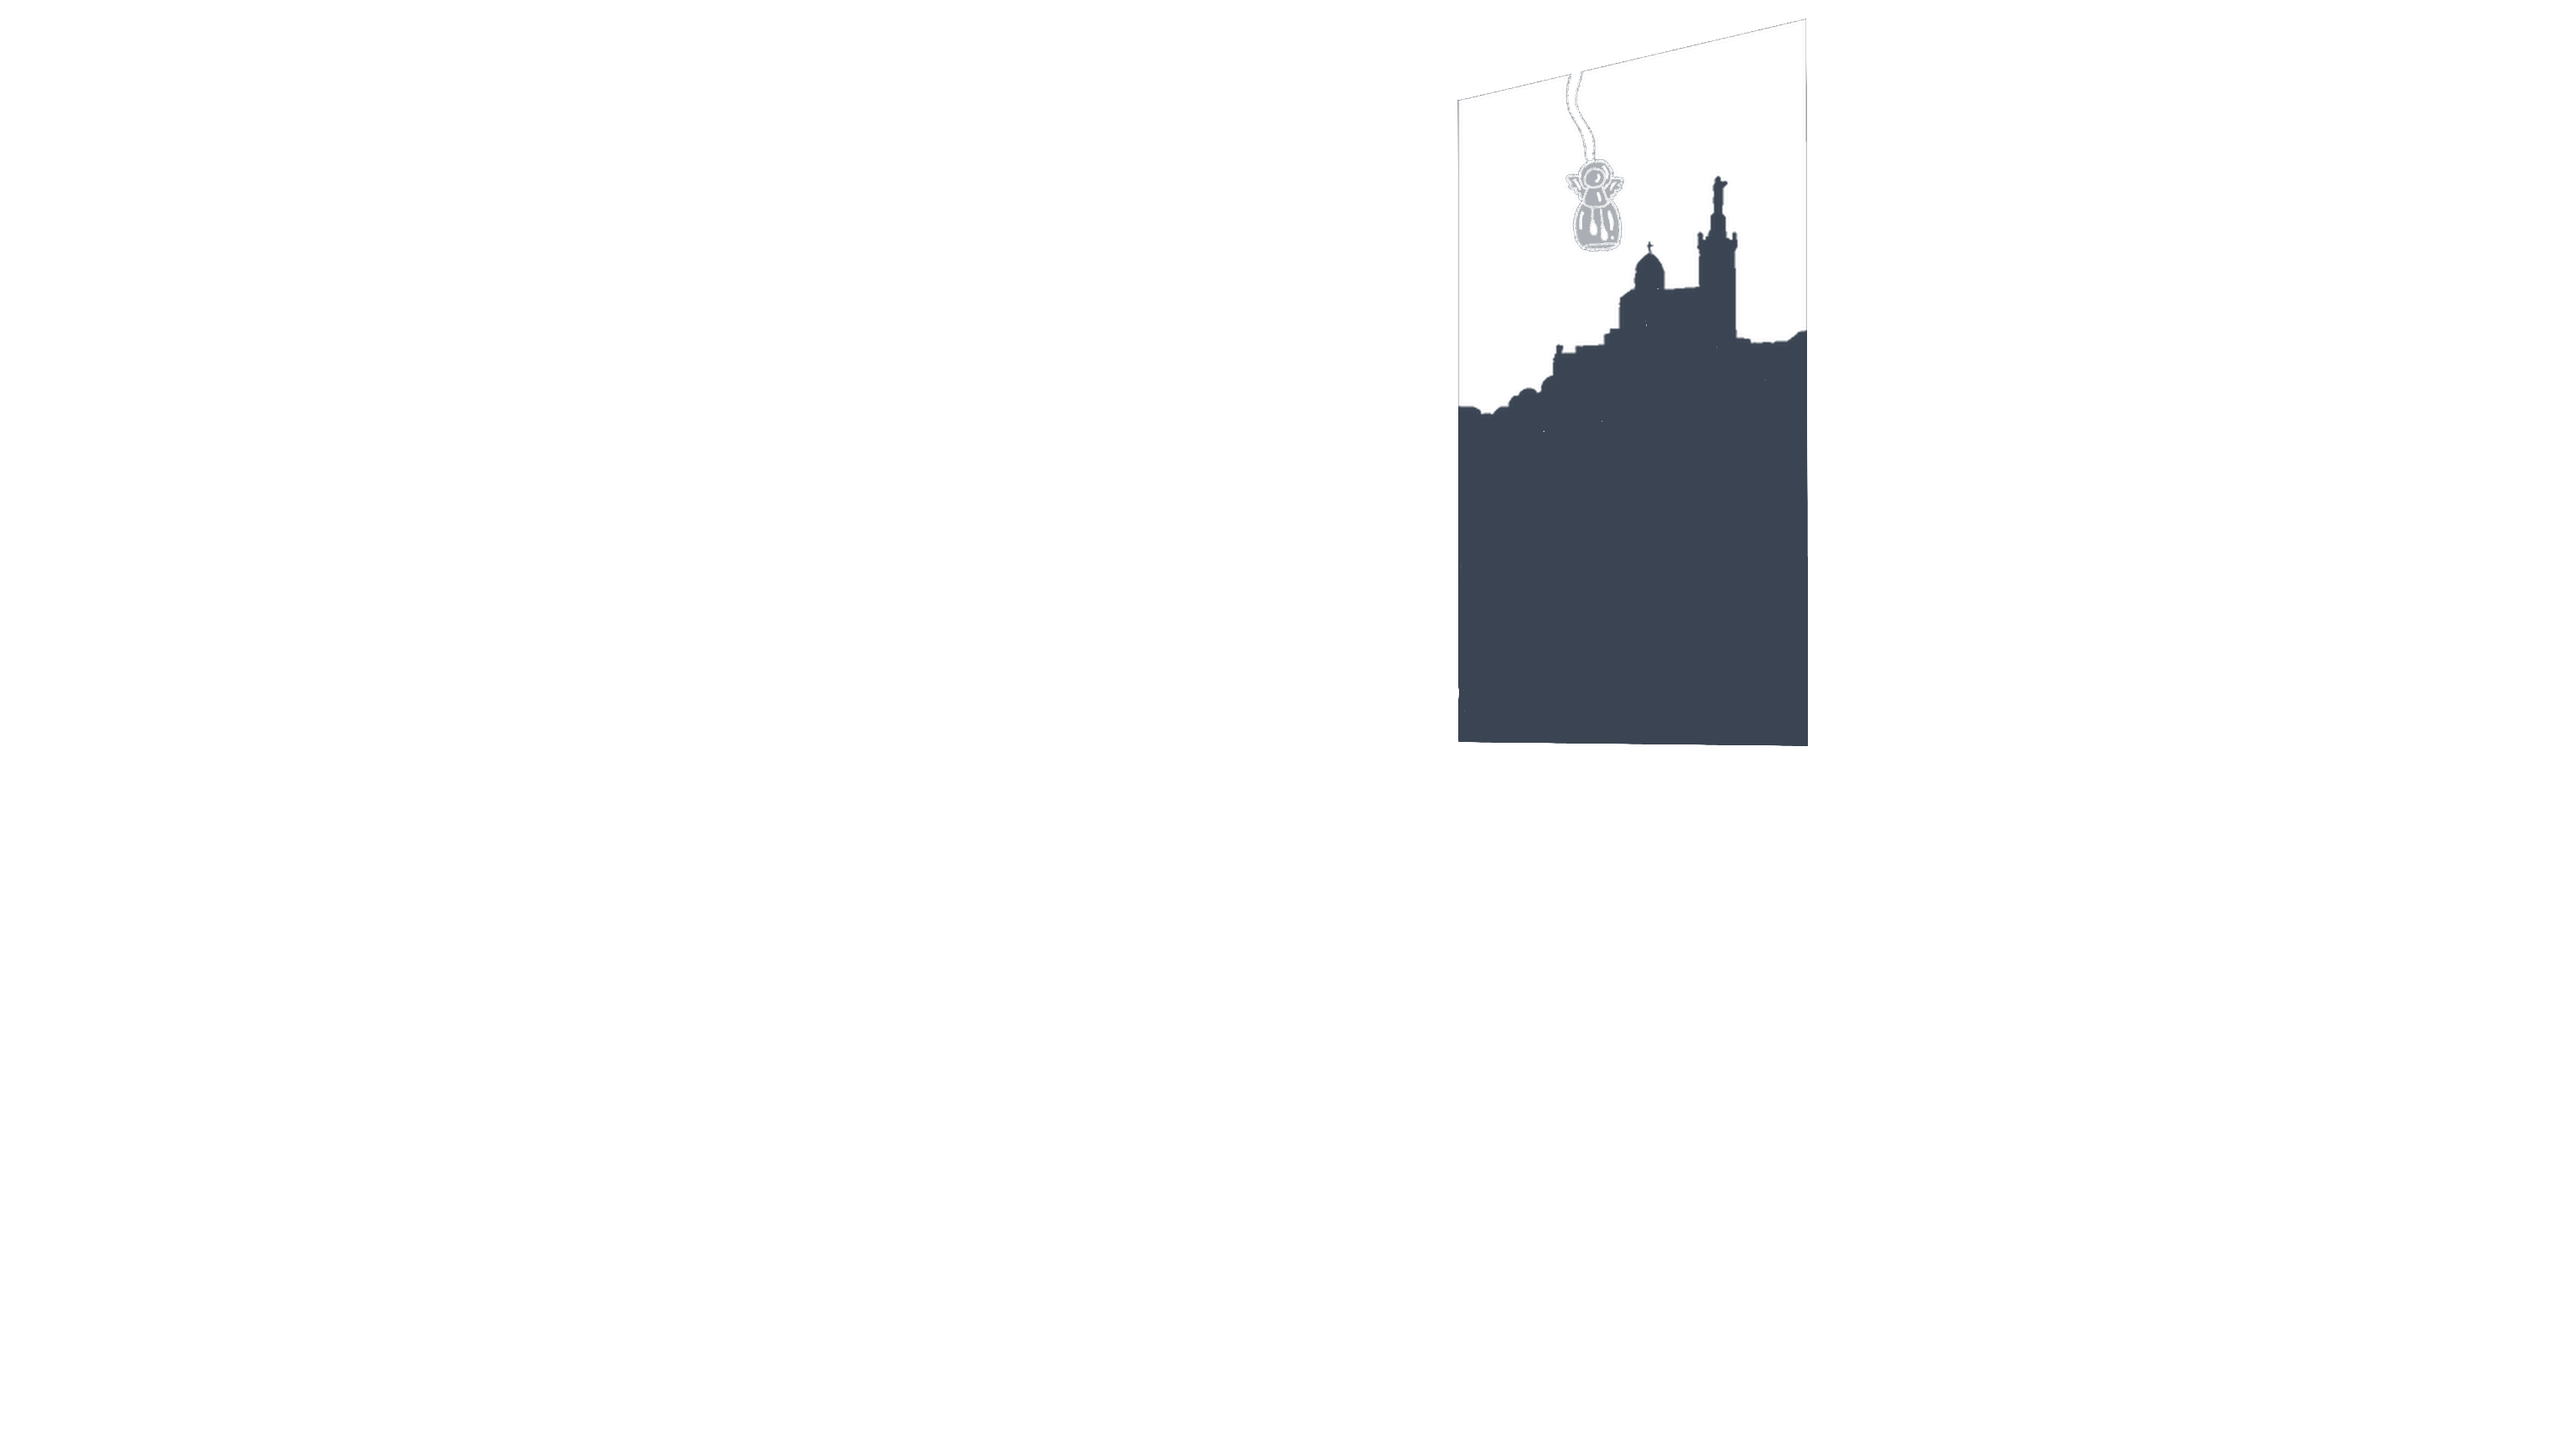
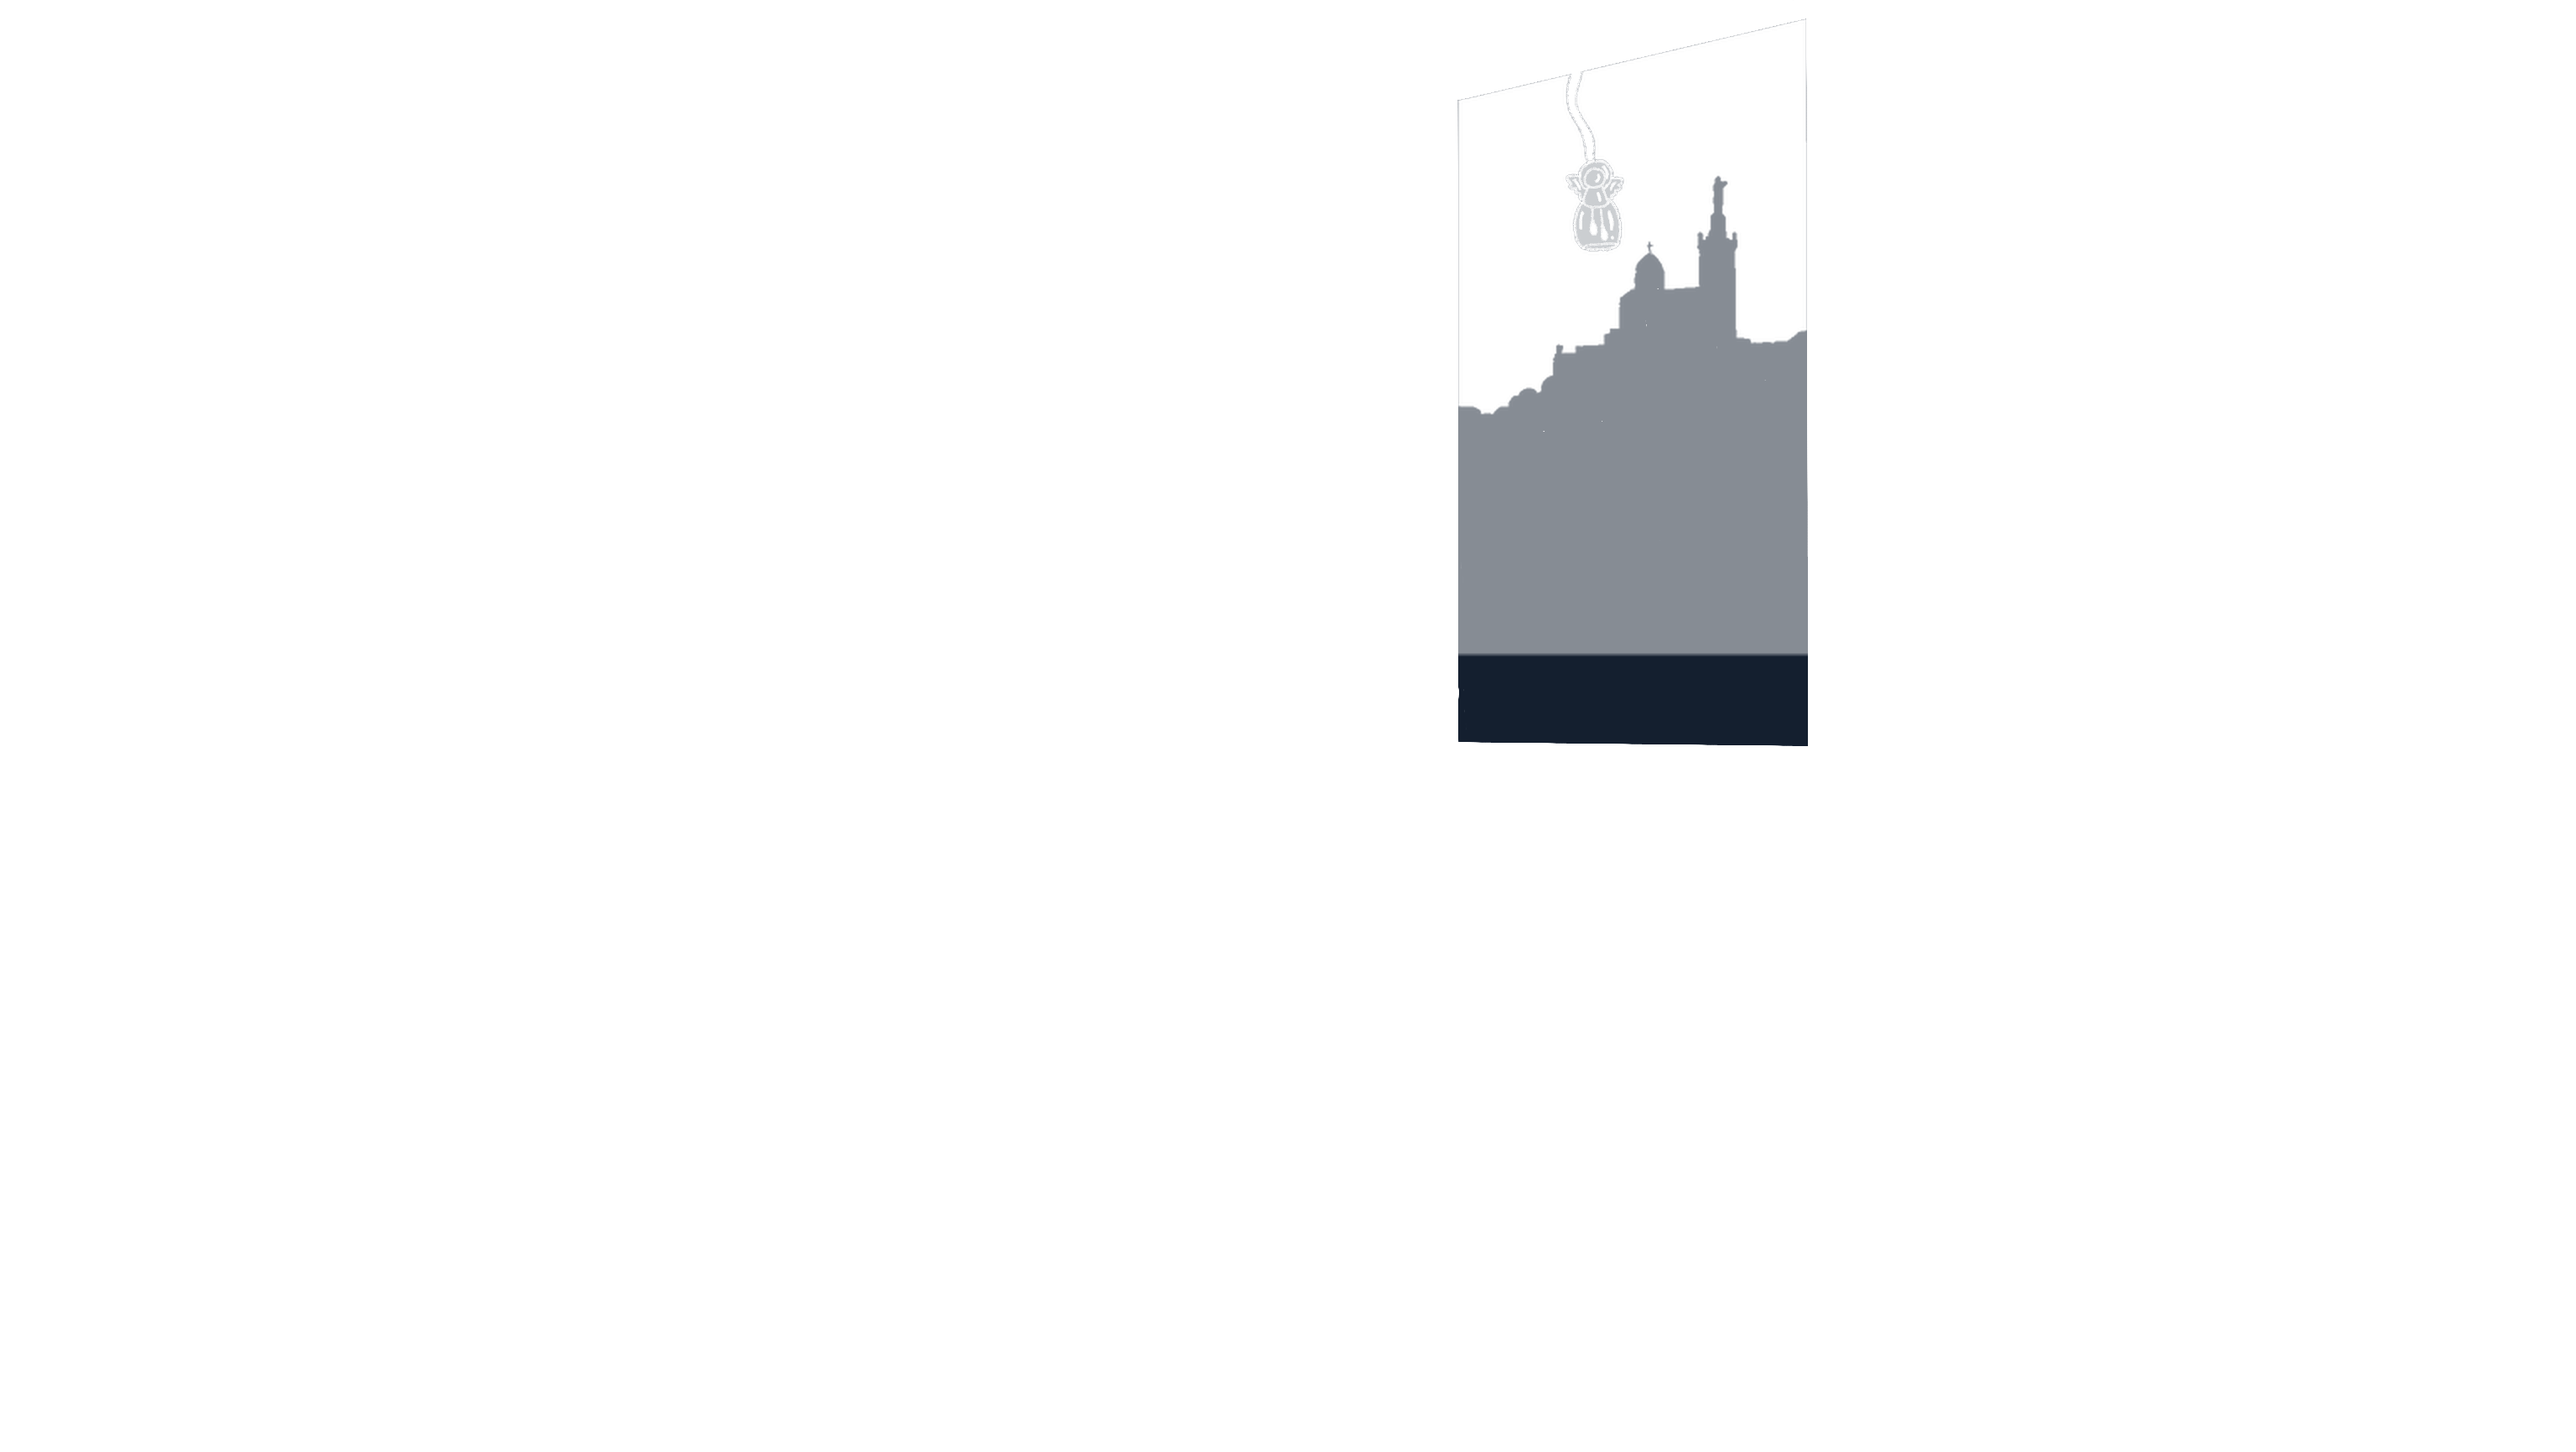
Reprendre le verre, les reflets des lampes et la mer de nuit

Changed region(s): [[0.5625, 0.0935, 0.7188, 0.53]]

diff --git a/index.html b/index.html
@@ -232,11 +232,18 @@ html[data-theme="night"] #nana-glow-stars-layer .nana-phosphor-star {opacity:1!i
     #play-viewport.room-redraw-preview #hotspot-guide {
       display: none !important;
     }
+    .v2-clock-reflection { display:none; }
+    html[data-theme="night"] .v2-clock-reflection { display:inline; }
+    .v2-mirror-night,.v2-mirror-reflection { display:none; }
+    html[data-theme="night"] .v2-mirror-day { display:none; }
+    html[data-theme="night"] .v2-mirror-night,
+    html[data-theme="night"] .v2-mirror-reflection { display:inline; }
+    html[data-theme="night"] .v2-mirror-reflection { filter: url(#v2-mirror-rose); }
     .v2-lit-posters { display: none; }
     html[data-theme="night"] .room-redraw-preview .v2-lit-posters { display: inline; }
-    html[data-theme="night"] .room-redraw-preview .memory-tile { filter: url(#room-v2-night-ink); }
+    html[data-theme="night"] .room-redraw-preview :is(.memory-tile,.memory-marble-art:not(.memory-hover)) { filter: url(#room-v2-night-ink); }
     /* Keep hand-drawn lights in daylight colours, above the recoloured artwork. */
-    html[data-theme="night"] .room-redraw-preview :is(#room-redraw-preview, #room-v2-underlay, #room-v2-ambient, #nana-wall-mirror, .v2-night-posters, .poster-tape-layer, #paprika-butterfly) {
+    html[data-theme="night"] .room-redraw-preview :is(#room-redraw-preview, #room-v2-underlay, #room-v2-ambient, .v2-night-posters, .poster-tape-layer, #paprika-butterfly) {
       filter: url(#room-v2-night-ink);
     }
     html[data-theme="night"] #play-viewport.room-redraw-preview #room-v2-ambient {
@@ -248,12 +255,12 @@ html[data-theme="night"] #nana-glow-stars-layer .nana-phosphor-star {opacity:1!i
       inset: 0;
       z-index: 3;
       pointer-events: none;
-      background: url("assets/room-redraw/marseille-penombre.webp") center / 100% 100% no-repeat, url("assets/room-redraw/lumieres-nuit.webp?v=ciel5") center / 100% 100% no-repeat;
+      background: url("assets/room-redraw/marseille-penombre.webp?v=reflets6") center / 100% 100% no-repeat, url("assets/room-redraw/lumieres-nuit.webp?v=reflets6") center / 100% 100% no-repeat;
     }
     html[data-theme="night"] #play-viewport.room-redraw-preview .poster-perspective-artworks .v2-night-posters {
       filter: brightness(.81) saturate(.88);
     }
-    html[data-theme="night"] .room-redraw-preview .v2-ferry { filter: brightness(.37); }
+    html[data-theme="night"] .room-redraw-preview .v2-ferry { display:none; animation-play-state:paused; }
     .room-redraw-preview #play-scene > #ufo-window-layer {
       inset: 0; width: 100%; height: 100%; z-index: 5; clip-path: none;
       -webkit-mask: url("assets/room-redraw/masque-ciel.png") center / 100% 100%;
@@ -763,7 +770,7 @@ html body #work-desktop .desktop-folder .folder-tile.work-browser-tile{
                 style.href = 'room-v2-ambient.css?v=20261118-biscuit';
                 style.onload = () => {
                   const script = document.createElement('script');
-                  script.src = 'room-v2-ambient.js?v=20261118-ciel';
+                  script.src = 'room-v2-ambient.js?v=reflets6';
                   document.head.append(script);
                 };
                 document.head.append(style);
@@ -1009,12 +1016,12 @@ html body #work-desktop .desktop-folder .folder-tile.work-browser-tile{
   </button>
  </div>
 </div>
-          <svg data-room-v2-layer width="0" height="0" aria-hidden="true" style="position:absolute;pointer-events:none"><defs><filter id="room-v2-night-ink" color-interpolation-filters="sRGB" x="0%" y="0%" width="100%" height="100%">
+          <svg data-room-v2-layer width="0" height="0" aria-hidden="true" style="position:absolute;pointer-events:none"><defs><filter id="v2-mirror-rose" color-interpolation-filters="sRGB"><feColorMatrix values=".45 0 0 0 .54  0 .78 0 0 .015  0 0 .67 0 .075  0 0 0 1 0"/></filter><filter id="room-v2-night-ink" color-interpolation-filters="sRGB" x="0%" y="0%" width="100%" height="100%">
             <feColorMatrix values="-.055 .083 .040 0 .03529  -.10 .41 .105 0 .07451  -.23 .53 .36 0 .25490  0 0 0 1 0"/>
           </filter>
           <filter id="room-v2-lit-objects" x="0%" y="0%" width="100%" height="100%" color-interpolation-filters="sRGB">
             <feColorMatrix values="-.055 .083 .040 0 .03529  -.10 .41 .105 0 .07451  -.23 .53 .36 0 .25490  0 0 0 1 0" result="night"/>
-            <feImage href="assets/room-redraw/portee-lampes.webp?v=diffus4" x="0%" y="0%" width="100%" height="100%" preserveAspectRatio="none" result="spill"/>
+            <feImage href="assets/room-redraw/portee-lampes.webp?v=reflets6" x="0%" y="0%" width="100%" height="100%" preserveAspectRatio="none" result="spill"/>
             <feComposite in="SourceGraphic" in2="spill" operator="in"/>
             <feComposite in2="night" operator="atop"/>
           </filter><filter id="paprika-butterfly-ring" x="-50%" y="-50%" width="200%" height="200%" color-interpolation-filters="sRGB">
@@ -1178,7 +1185,7 @@ html body #work-desktop .desktop-folder .folder-tile.work-browser-tile{
 
 
 
-<script src="poster-fit.js?v=20261118-halo-affiches" defer></script><script src="mirror-placement.js?v=20261118-miroir" defer></script><script src="flower-lamp-placement.js?v=20261118-halo-affiches" defer></script>
+<script src="poster-fit.js?v=20261118-halo-affiches" defer></script><script src="mirror-placement.js?v=20261118-miroir" defer></script><script src="flower-lamp-placement.js?v=reflets6" defer></script>
 <script src="fortune-cookie-placement.js?v=20261118-biscuit" defer></script>
 <script src="interactive-decor-outlines.js?v=20261106-unified-1" defer></script>
 <script src="glow-stars.js?v=20261118-retirer-etoile" defer></script>

diff --git a/flower-lamp-placement.js b/flower-lamp-placement.js
@@ -74,6 +74,17 @@ function mountWallDecoration(kind, redrawn) {
       preserveAspectRatio:'none',
       'aria-hidden':'true','pointer-events':'none'
     });
+    if (redrawn && mirror) {
+      const sprites=make('g');
+      const night=image.cloneNode(false);
+      night.setAttribute('href','assets/room-redraw/miroir-nuit.webp');
+      night.classList.add('v2-mirror-night');
+      image.classList.add('v2-mirror-day');
+      sprites.append(image,night);
+      clipped.appendChild(sprites);
+      visual.appendChild(clipped);
+      return {area,image:sprites};
+    }
     clipped.appendChild(image);
     visual.appendChild(clipped);
     return {area,image};
@@ -144,6 +155,11 @@ function mountWallDecoration(kind, redrawn) {
     const surface = make('g', {class:'v2-wall-surface'});
     if (!mirror) surface.append(wallLight);
     surface.append(visual);
+    if (mirror) {
+      visual.id='v2-mirror-glass';
+      const reflection=make('use',{href:'#v2-mirror-glass',mask:'url(#v2-flower-poster-mask)',class:'v2-mirror-reflection','pointer-events':'none'});
+      surface.appendChild(reflection);
+    }
     if (mirror && !editing) hit.setAttribute('data-open','dressup');
     surface.append(hit);
     group.append(defs, surface, editorLayer);

diff --git a/room-v2-ambient.js b/room-v2-ambient.js
@@ -10,7 +10,7 @@
     image.src = folder + file;
     return image.decode().then(() => image);
   }
-  const response = await fetch(folder + 'objets.svg?v=20261118-lampes');
+  const response = await fetch(folder + 'objets.svg?v=reflets6');
   if (!response.ok) throw new Error('Room drawing unavailable');
   const svg = new DOMParser().parseFromString(await response.text(), 'image/svg+xml').documentElement;
   if (svg.localName !== 'svg') throw new Error('Invalid room drawing');
